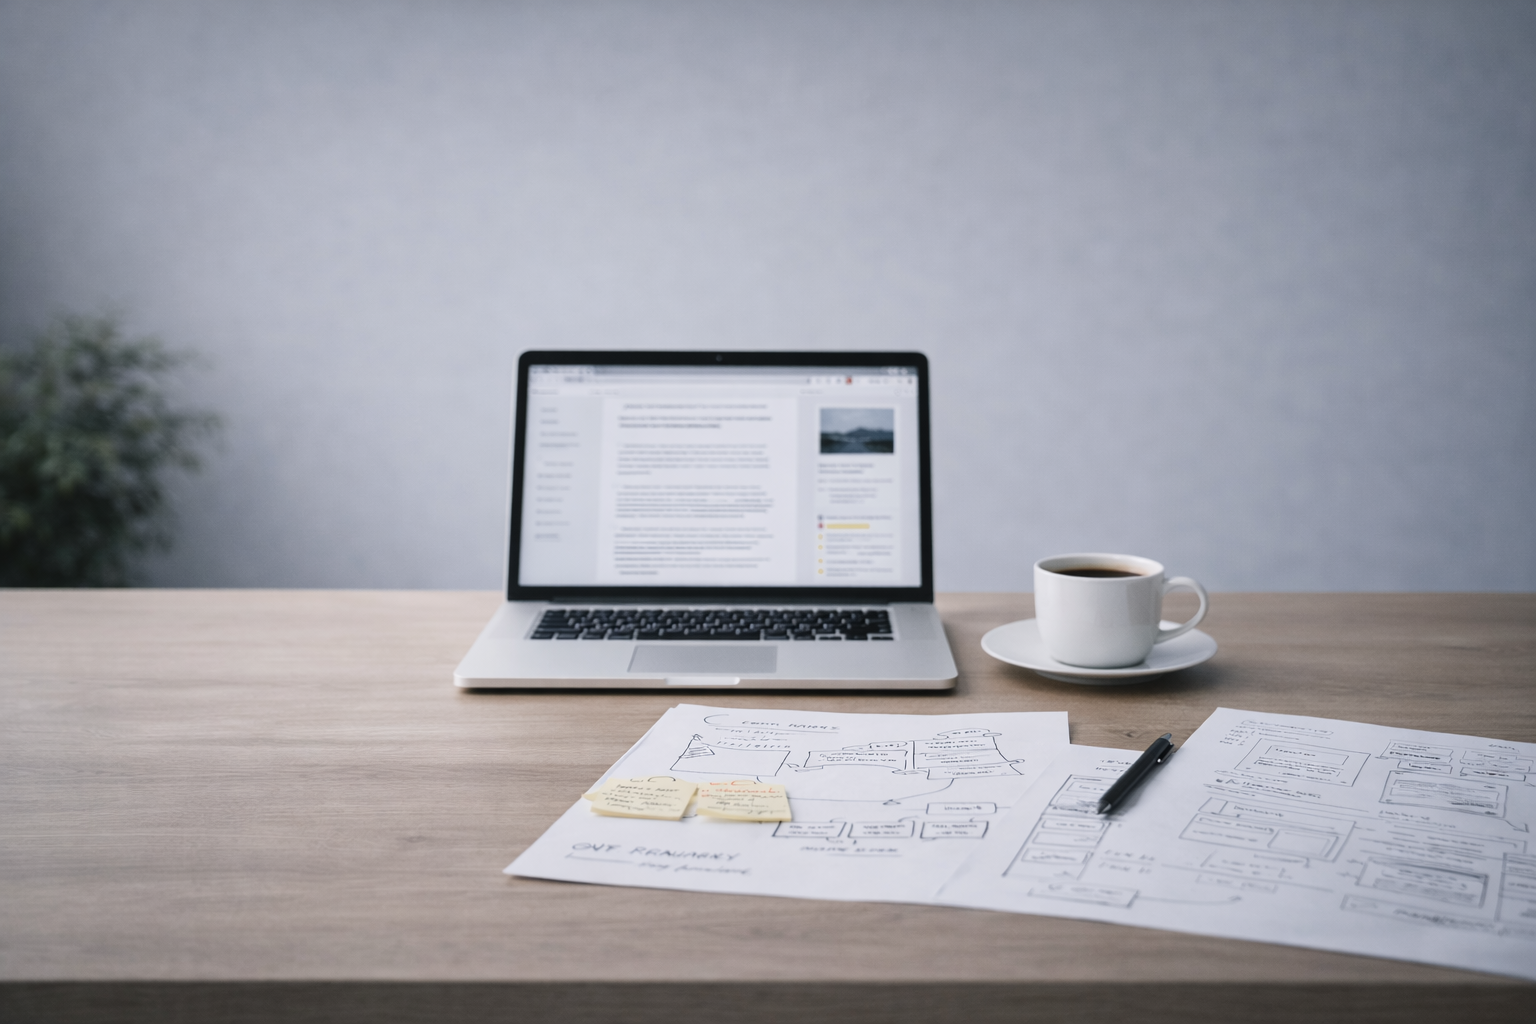
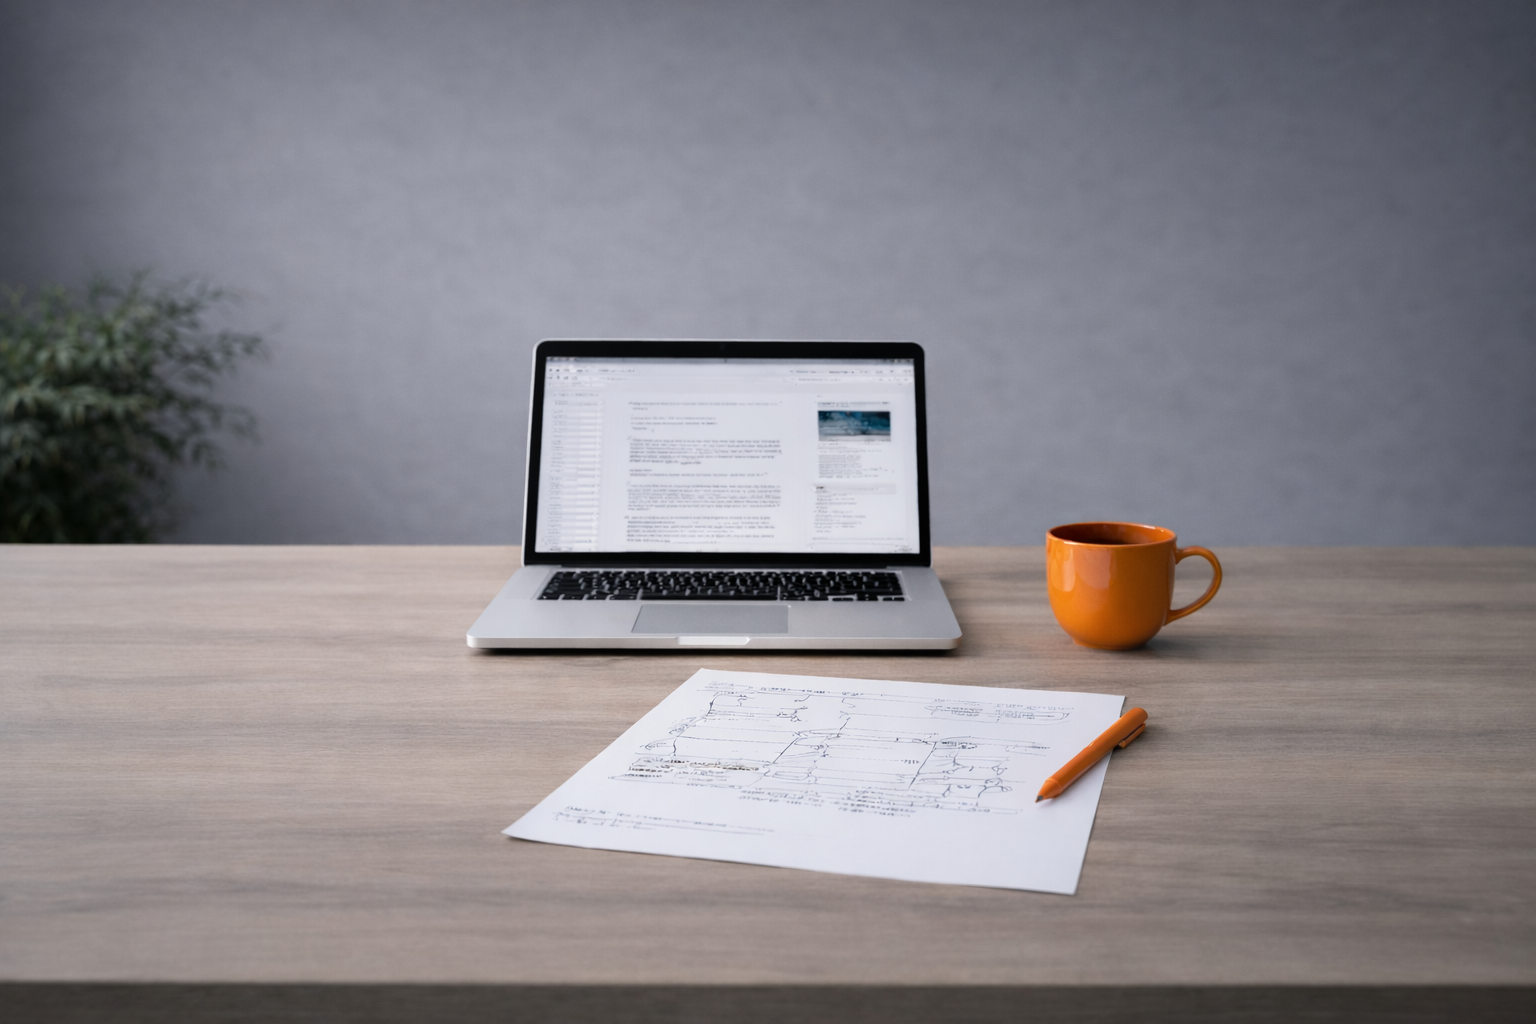
fixes

diff --git a/css/sections.css b/css/sections.css
@@ -1434,7 +1434,7 @@ a.contacts-item__value:focus-visible {
 }
 
 .quick-link-card--shop .quick-link-card__image {
-  object-position: center 42%;
+  object-position: center 20%;
 }
 
 .quick-link-card--services {
@@ -1447,20 +1447,25 @@ a.contacts-item__value:focus-visible {
   min-height: 320px;
 }
 
+.quick-link-card--articles .quick-link-card__image {
+  --quick-link-image-offset-y: -28px;
+}
+
 .quick-link-card__image {
+  --quick-link-image-offset-y: 0px;
   position: absolute;
   inset: 0;
   width: 100%;
   height: 100%;
   object-fit: cover;
-  transform: scale(1);
+  transform: translateY(var(--quick-link-image-offset-y)) scale(1);
   transform-origin: center center;
   transition: transform 0.55s ease;
 }
 
 .quick-link-card:hover .quick-link-card__image,
 .quick-link-card:focus-within .quick-link-card__image {
-  transform: scale(1.08);
+  transform: translateY(var(--quick-link-image-offset-y)) scale(1.08);
 }
 
 .quick-link-card__overlay {
@@ -1522,13 +1527,13 @@ a.contacts-item__value:focus-visible {
   min-height: 46px;
   margin-top: auto;
   padding: 0 18px 0 20px;
-  border: 1px solid rgba(255, 255, 255, 0.3);
+  border: 1px solid rgba(11, 120, 227, 0.16);
   border-radius: 999px;
-  background: rgba(255, 255, 255, 0.14);
+  background: rgba(255, 255, 255, 0.92);
   backdrop-filter: blur(12px);
   -webkit-backdrop-filter: blur(12px);
-  box-shadow: 0 10px 24px rgba(20, 40, 90, 0.16);
-  color: #ffffff;
+  box-shadow: 0 10px 24px rgba(11, 120, 227, 0.12);
+  color: var(--brand-blue);
   font-weight: 700;
   letter-spacing: 0.01em;
   transition:
@@ -1552,9 +1557,9 @@ a.contacts-item__value:focus-visible {
 .quick-link-card__link:hover,
 .quick-link-card__link:focus-visible {
   transform: translateY(-1px);
-  background: rgba(255, 255, 255, 0.96);
-  border-color: rgba(255, 255, 255, 0.96);
-  box-shadow: 0 14px 28px rgba(20, 40, 90, 0.2);
+  background: #ffffff;
+  border-color: rgba(11, 120, 227, 0.24);
+  box-shadow: 0 14px 28px rgba(11, 120, 227, 0.18);
   color: var(--brand-blue);
 }
 

diff --git a/css/responsive.css b/css/responsive.css
@@ -1466,6 +1466,10 @@
     min-height: 260px;
   }
 
+  .quick-link-card--articles .quick-link-card__image {
+    --quick-link-image-offset-y: -22px;
+  }
+
   .quick-link-card__content {
     padding: 22px 20px 24px;
   }
@@ -1569,6 +1573,10 @@
 
   .quick-link-card--articles {
     min-height: 220px;
+  }
+
+  .quick-link-card--articles .quick-link-card__image {
+    --quick-link-image-offset-y: -18px;
   }
 
   .quick-link-card__content {